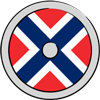
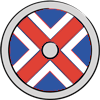
add icelands shield flag to html

diff --git a/docs/index.html b/docs/index.html
@@ -7,6 +7,7 @@
   <link rel="preload" href="img/shield-se.png" as="image">
   <link rel="preload" href="img/shield-dk.png" as="image">
   <link rel="preload" href="img/shield-se2.png" as="image">
+  <link rel="preload" href="img/shield-isl.png" as="image">
   <link rel="preload" href="img/shield-se-dk-flawed.png" as="image">
   <link rel="preload" href="img/shield-skane-flawed.png" as="image">
   <style>
@@ -107,6 +108,10 @@
       background-image: url('img/shield-no.png');
     }
 
+    span.shield-isl {
+      background-image: url('img/shield-isl.png');
+    }
+
     span.shield-se-dk {
       background-image: url('img/shield-se-dk-flawed.png');
     }
@@ -178,7 +183,7 @@
       <div class="team"><a href="#" title="IndianTuesday">IndianTuesday <span class="shield shield-se"></span></a></div>
       <div class="team"><a href="#" title="badfirmware">badfirmware <span class="shield shield-se-dk"></span></a></div>
       <div class="team"><a href="#" title="Team Steam Stream">Team Steam Stream <span class="shield shield-se"></span></a></div>
-      <div class="team"><a href="#" title="Pwnagaukar">Pwnagaukar <span class="shield shield-se"></span></a></div>
+      <div class="team"><a href="#" title="Pwnagaukar">Pwnagaukar <span class="shield shield-isl"></span></a></div>
     </div>
     <div class="sponsor-section">
       sponsored by<br>
